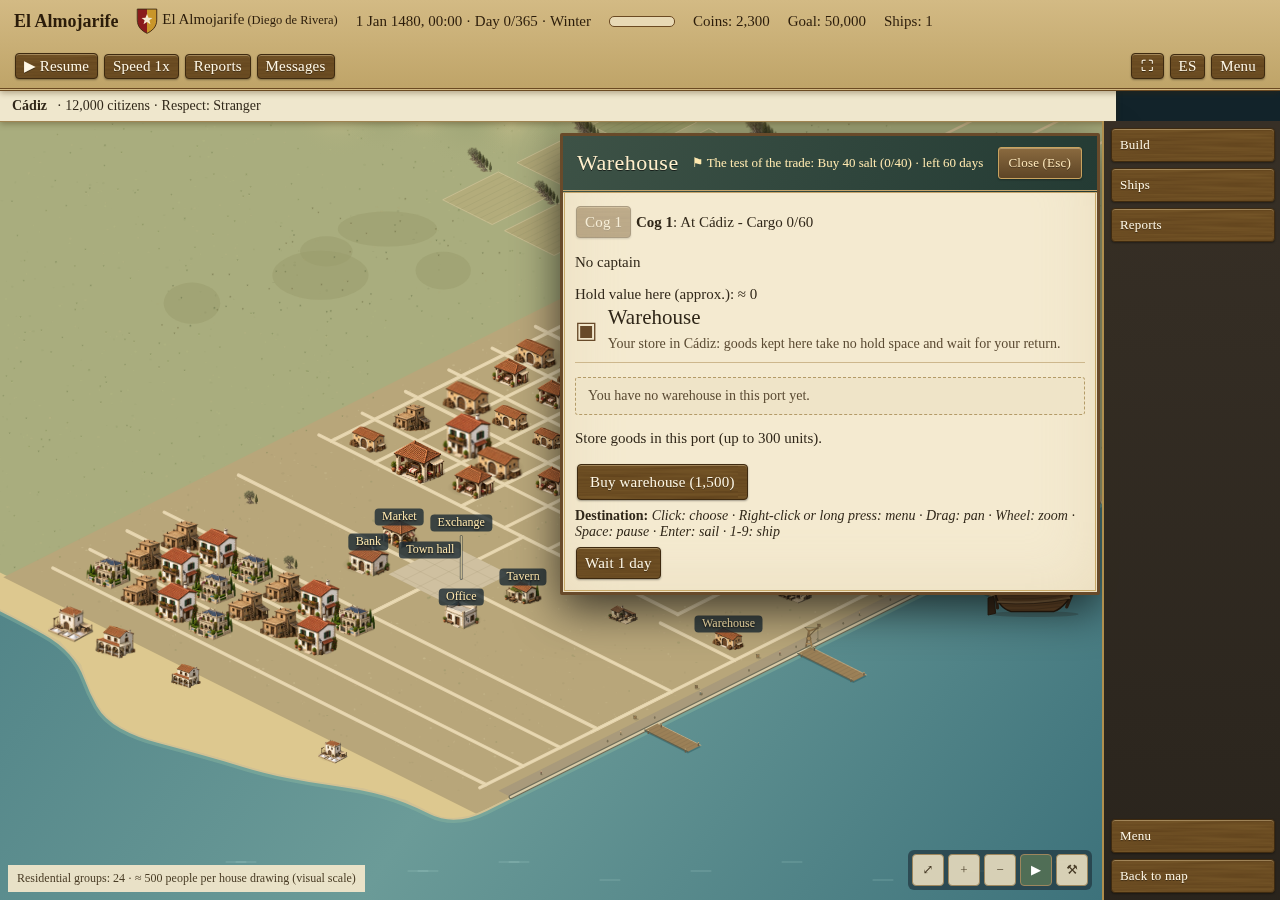
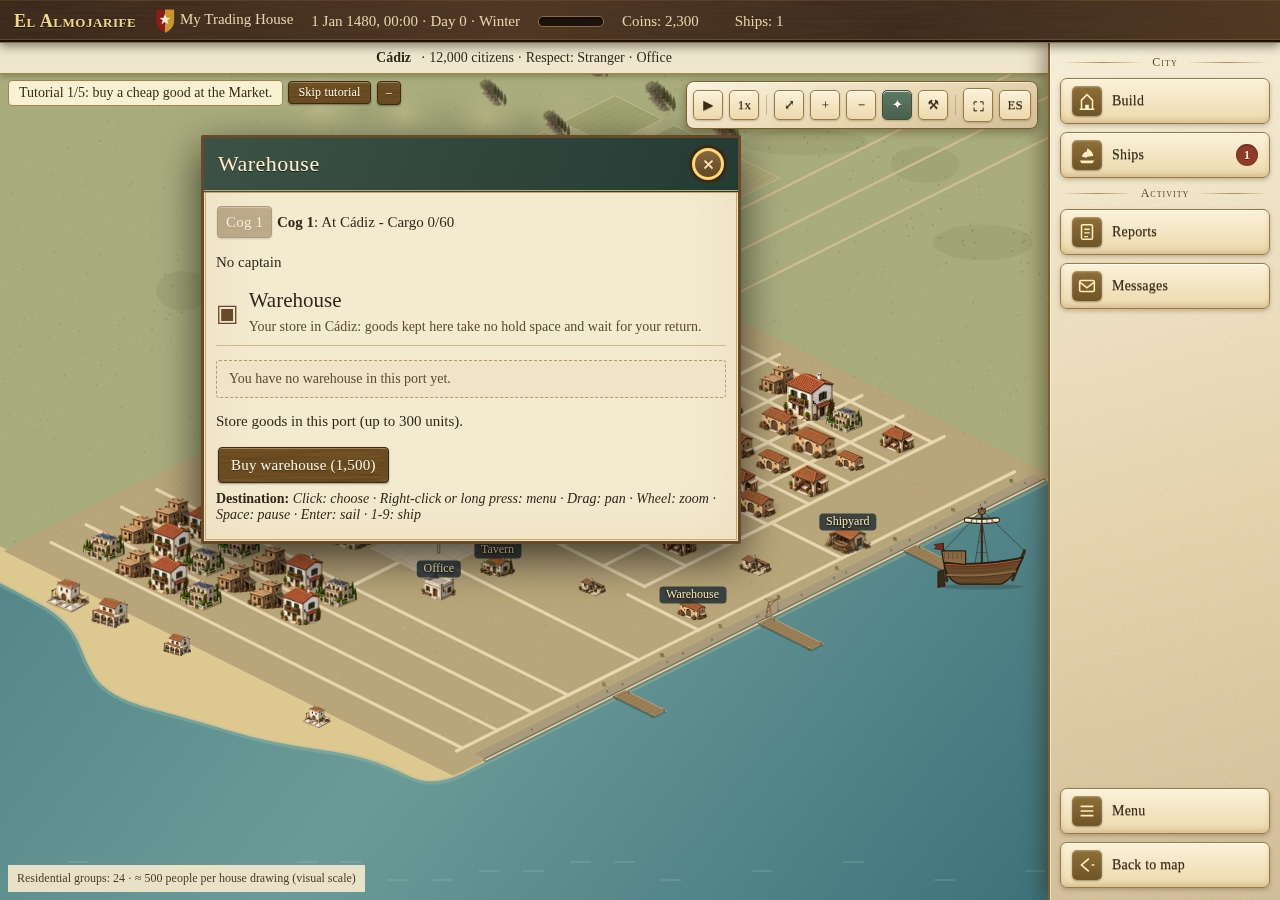
docs: refresh remaining six README screenshots

diff --git a/README.md b/README.md
@@ -32,7 +32,7 @@ You are a small merchant with one cog and a few coins in a harbour town. Buy che
 
 ## Screenshots
 
-_The city plan (`city2d.png`) and sea chart (`map.png`) were refreshed on 26 Oct 2026 from the playable build at `main` d8a7383bf9713fd0d4f980363685cc1d06a1a22b (English). The remaining screenshots are earlier captures and were not refreshed in that update. Refresh screenshots when the UI changes so they never show unmerged work._
+_All eight screenshots were refreshed on 26 Oct 2026 (English). The city plan (`city2d.png`) and sea chart (`map.png`) were captured from the playable build at `main` d8a7383bf9713fd0d4f980363685cc1d06a1a22b; the remaining six were captured from `main` c4ef80d84bdc1f500809eb4c7e163b0894a5fd2e. Refresh screenshots when the UI changes so they never show unmerged work._
 
 | The city plan | Trade in the market |
 |---|---|
